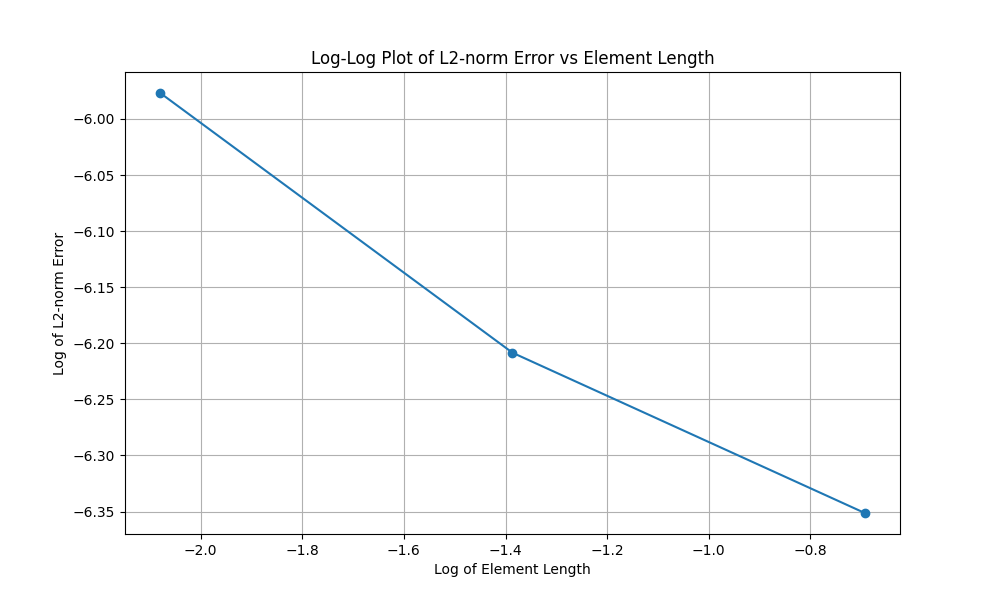
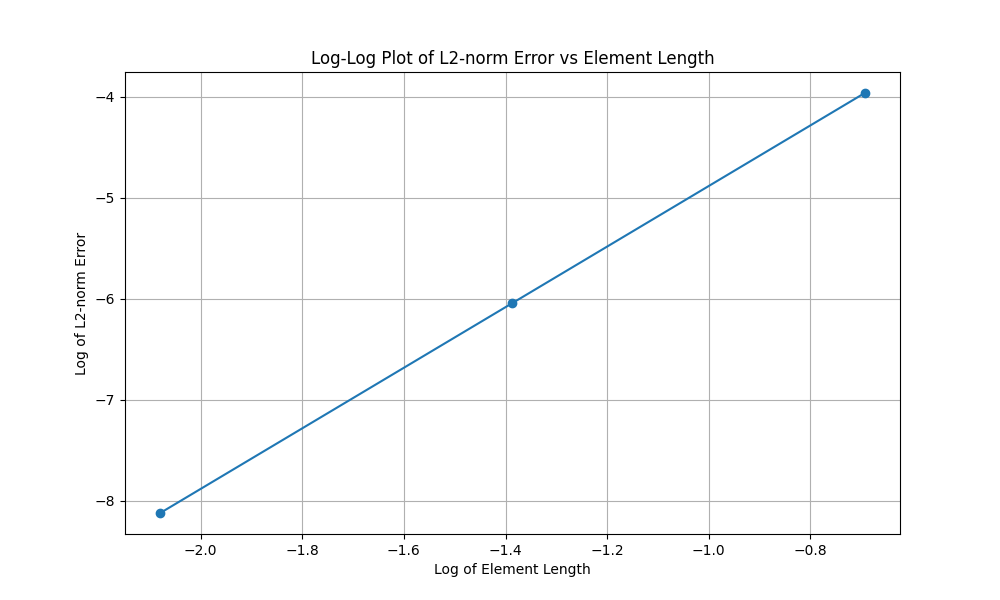
fix error calculation: transform function of gaussian points

diff --git a/HW_8/HW_8_error.py b/HW_8/HW_8_error.py
@@ -33,11 +33,11 @@ def calculate_error(number_of_elements, x_element_steps=1000):
     # Get Gauss points and weights
     w, gp = gauss(4)
     
-    total_error = 0
+    total_error_square = 0
     
     for i in range(number_of_elements):
         # Transform Gauss points to the current element's domain
-        x_gp = 0.5 * (1 + gp) * element_length + i * element_length
+        x_gp = 0.5 * (0 + element_length) + 0.5 * gp * (element_length - 0)
         
         # Calculate the estimated and real displacements at Gauss points
         ue1 = np.power(x_gp[0], 3)
@@ -46,8 +46,12 @@ def calculate_error(number_of_elements, x_element_steps=1000):
         real_disp = np.power(x_gp, 3)
         
         # Calculate error for the current element using Gauss quadrature
-        error = np.sum(w * np.power(estimated_disp - real_disp, 2)) * element_length / 2
-        total_error += error
+        error_square = np.sum(w * np.power(estimated_disp - real_disp, 2)) * element_length / 2
+        total_error_square += error_square
+
+    total_error = np.sqrt(total_error_square)
+    
+    print('Error of', number_of_elements, "elements is: ", total_error)
     
     return total_error
 
@@ -65,6 +69,7 @@ def plot_log_error(number_of_elements):
         log_lengths[i] = np.log(element_length)
     
     log_errors = np.log(errors)
+    print('log(h):', log_lengths)
 
     # Plot
     plt.figure(figsize=(10, 6))
